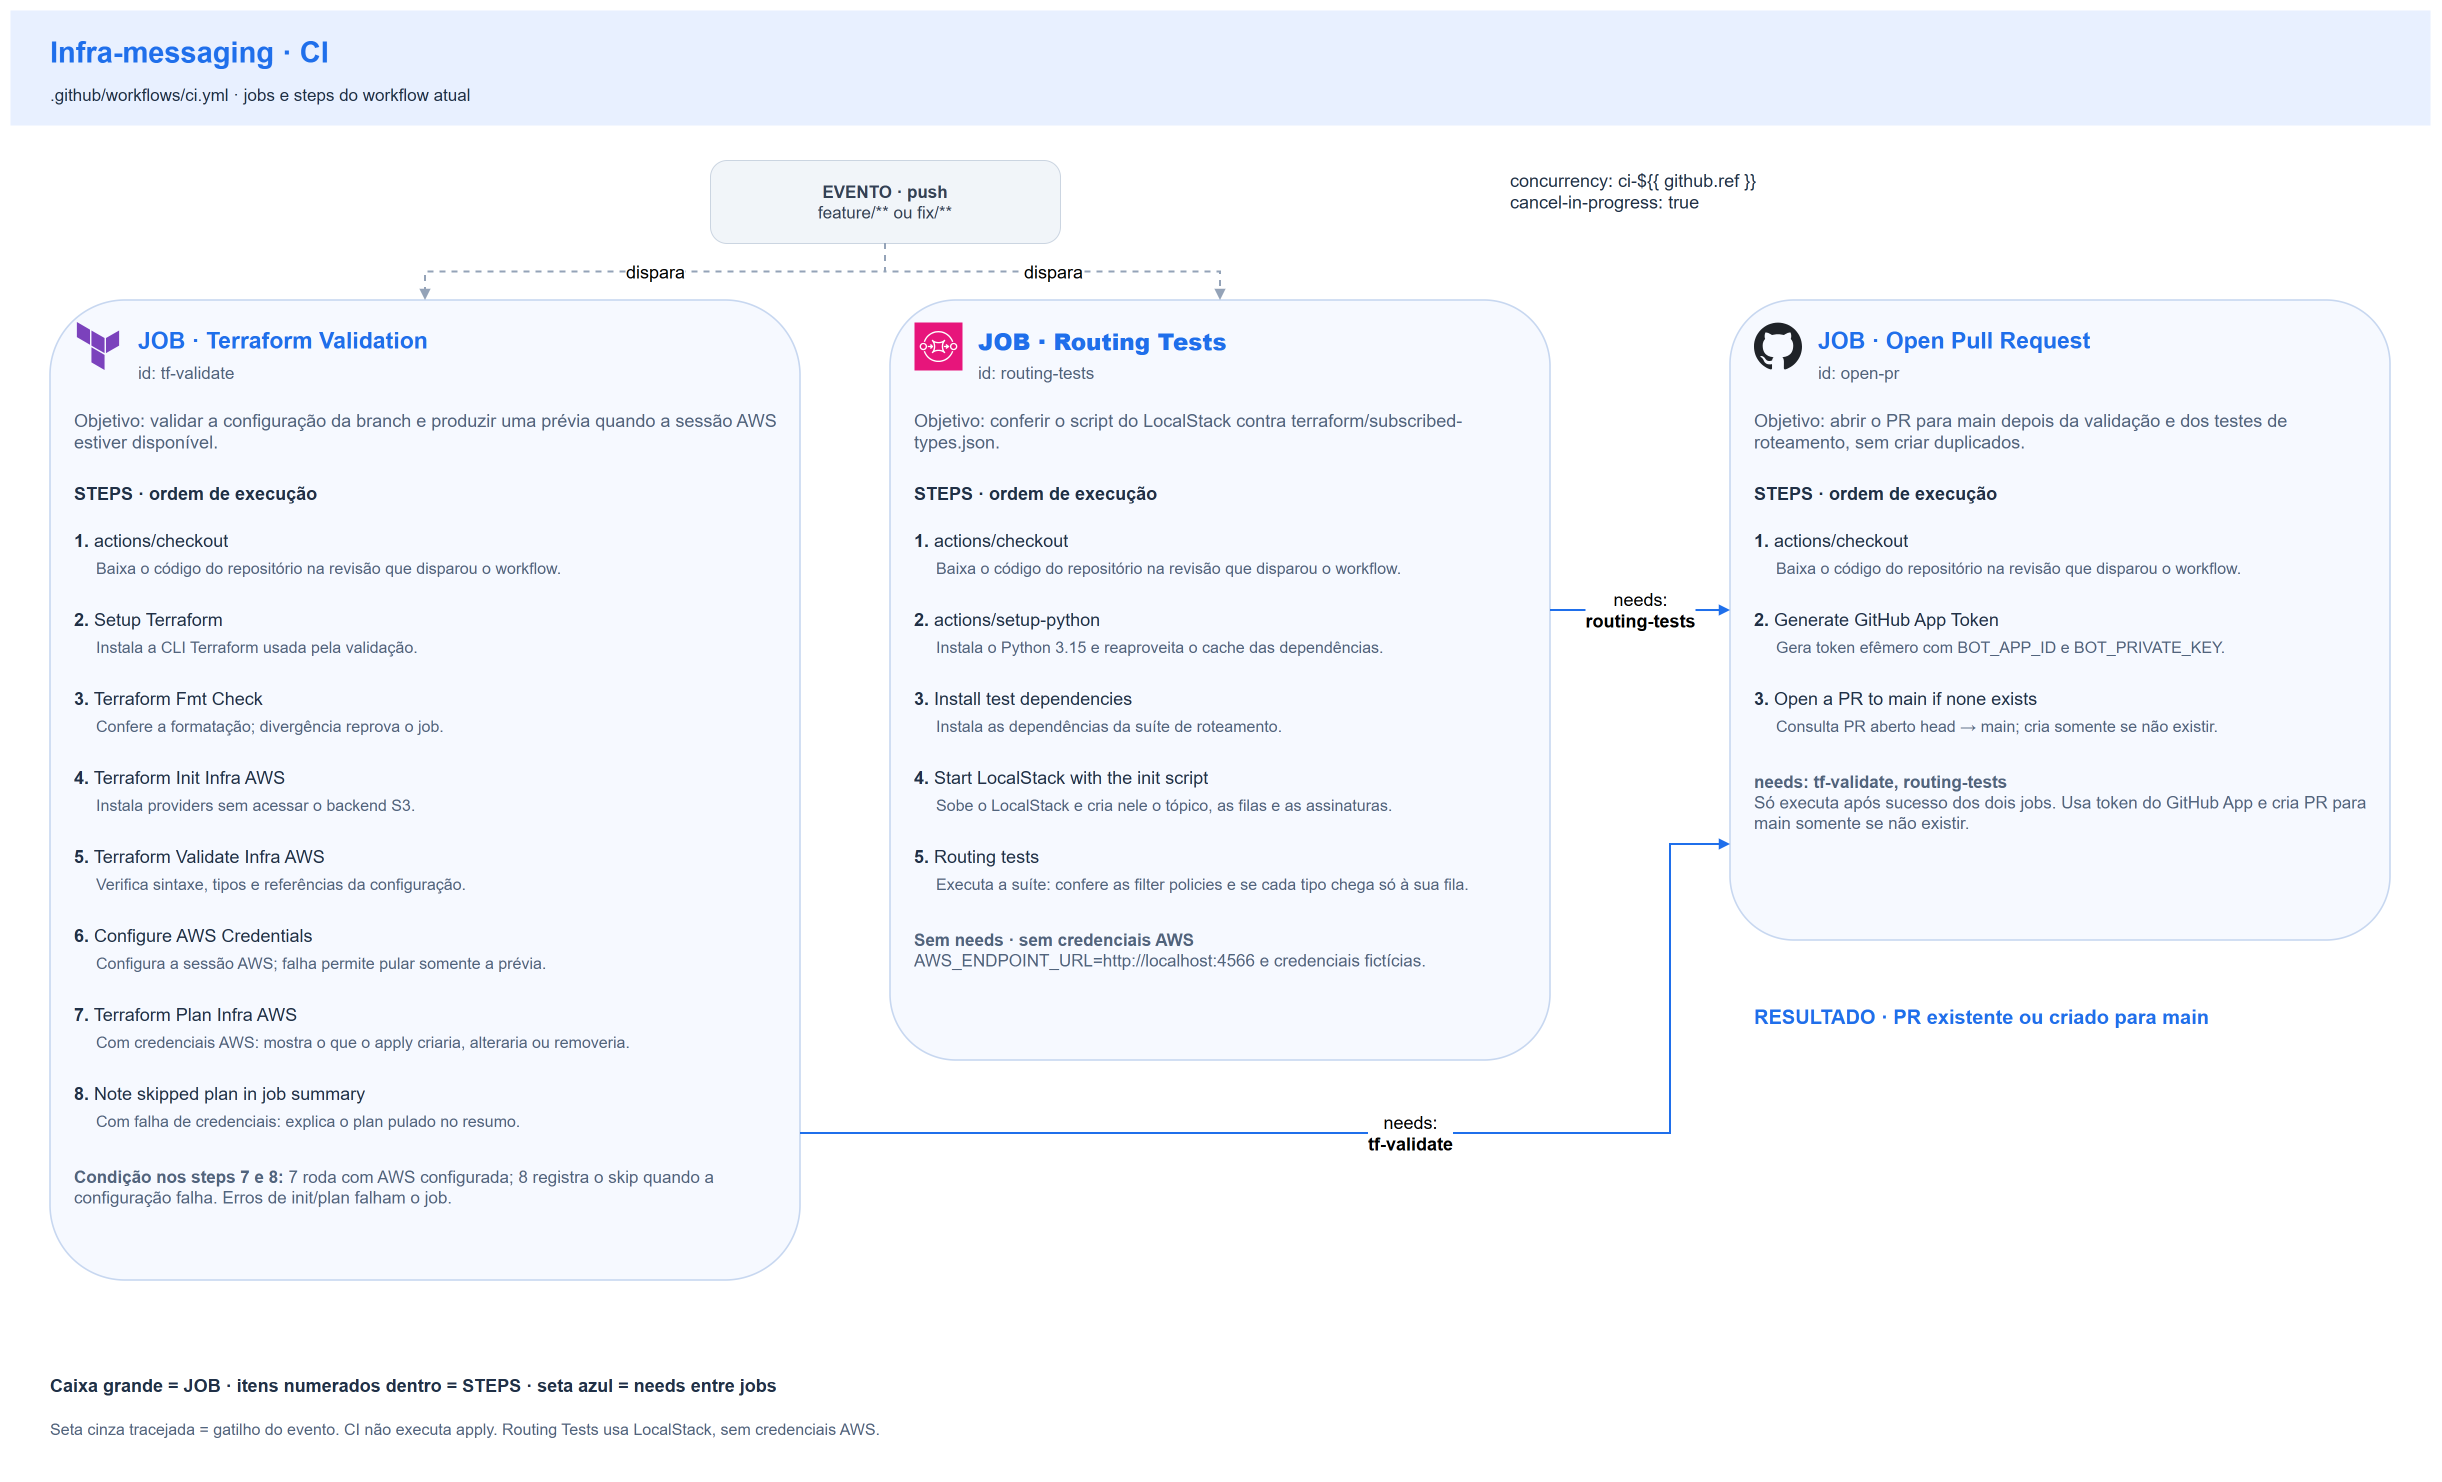
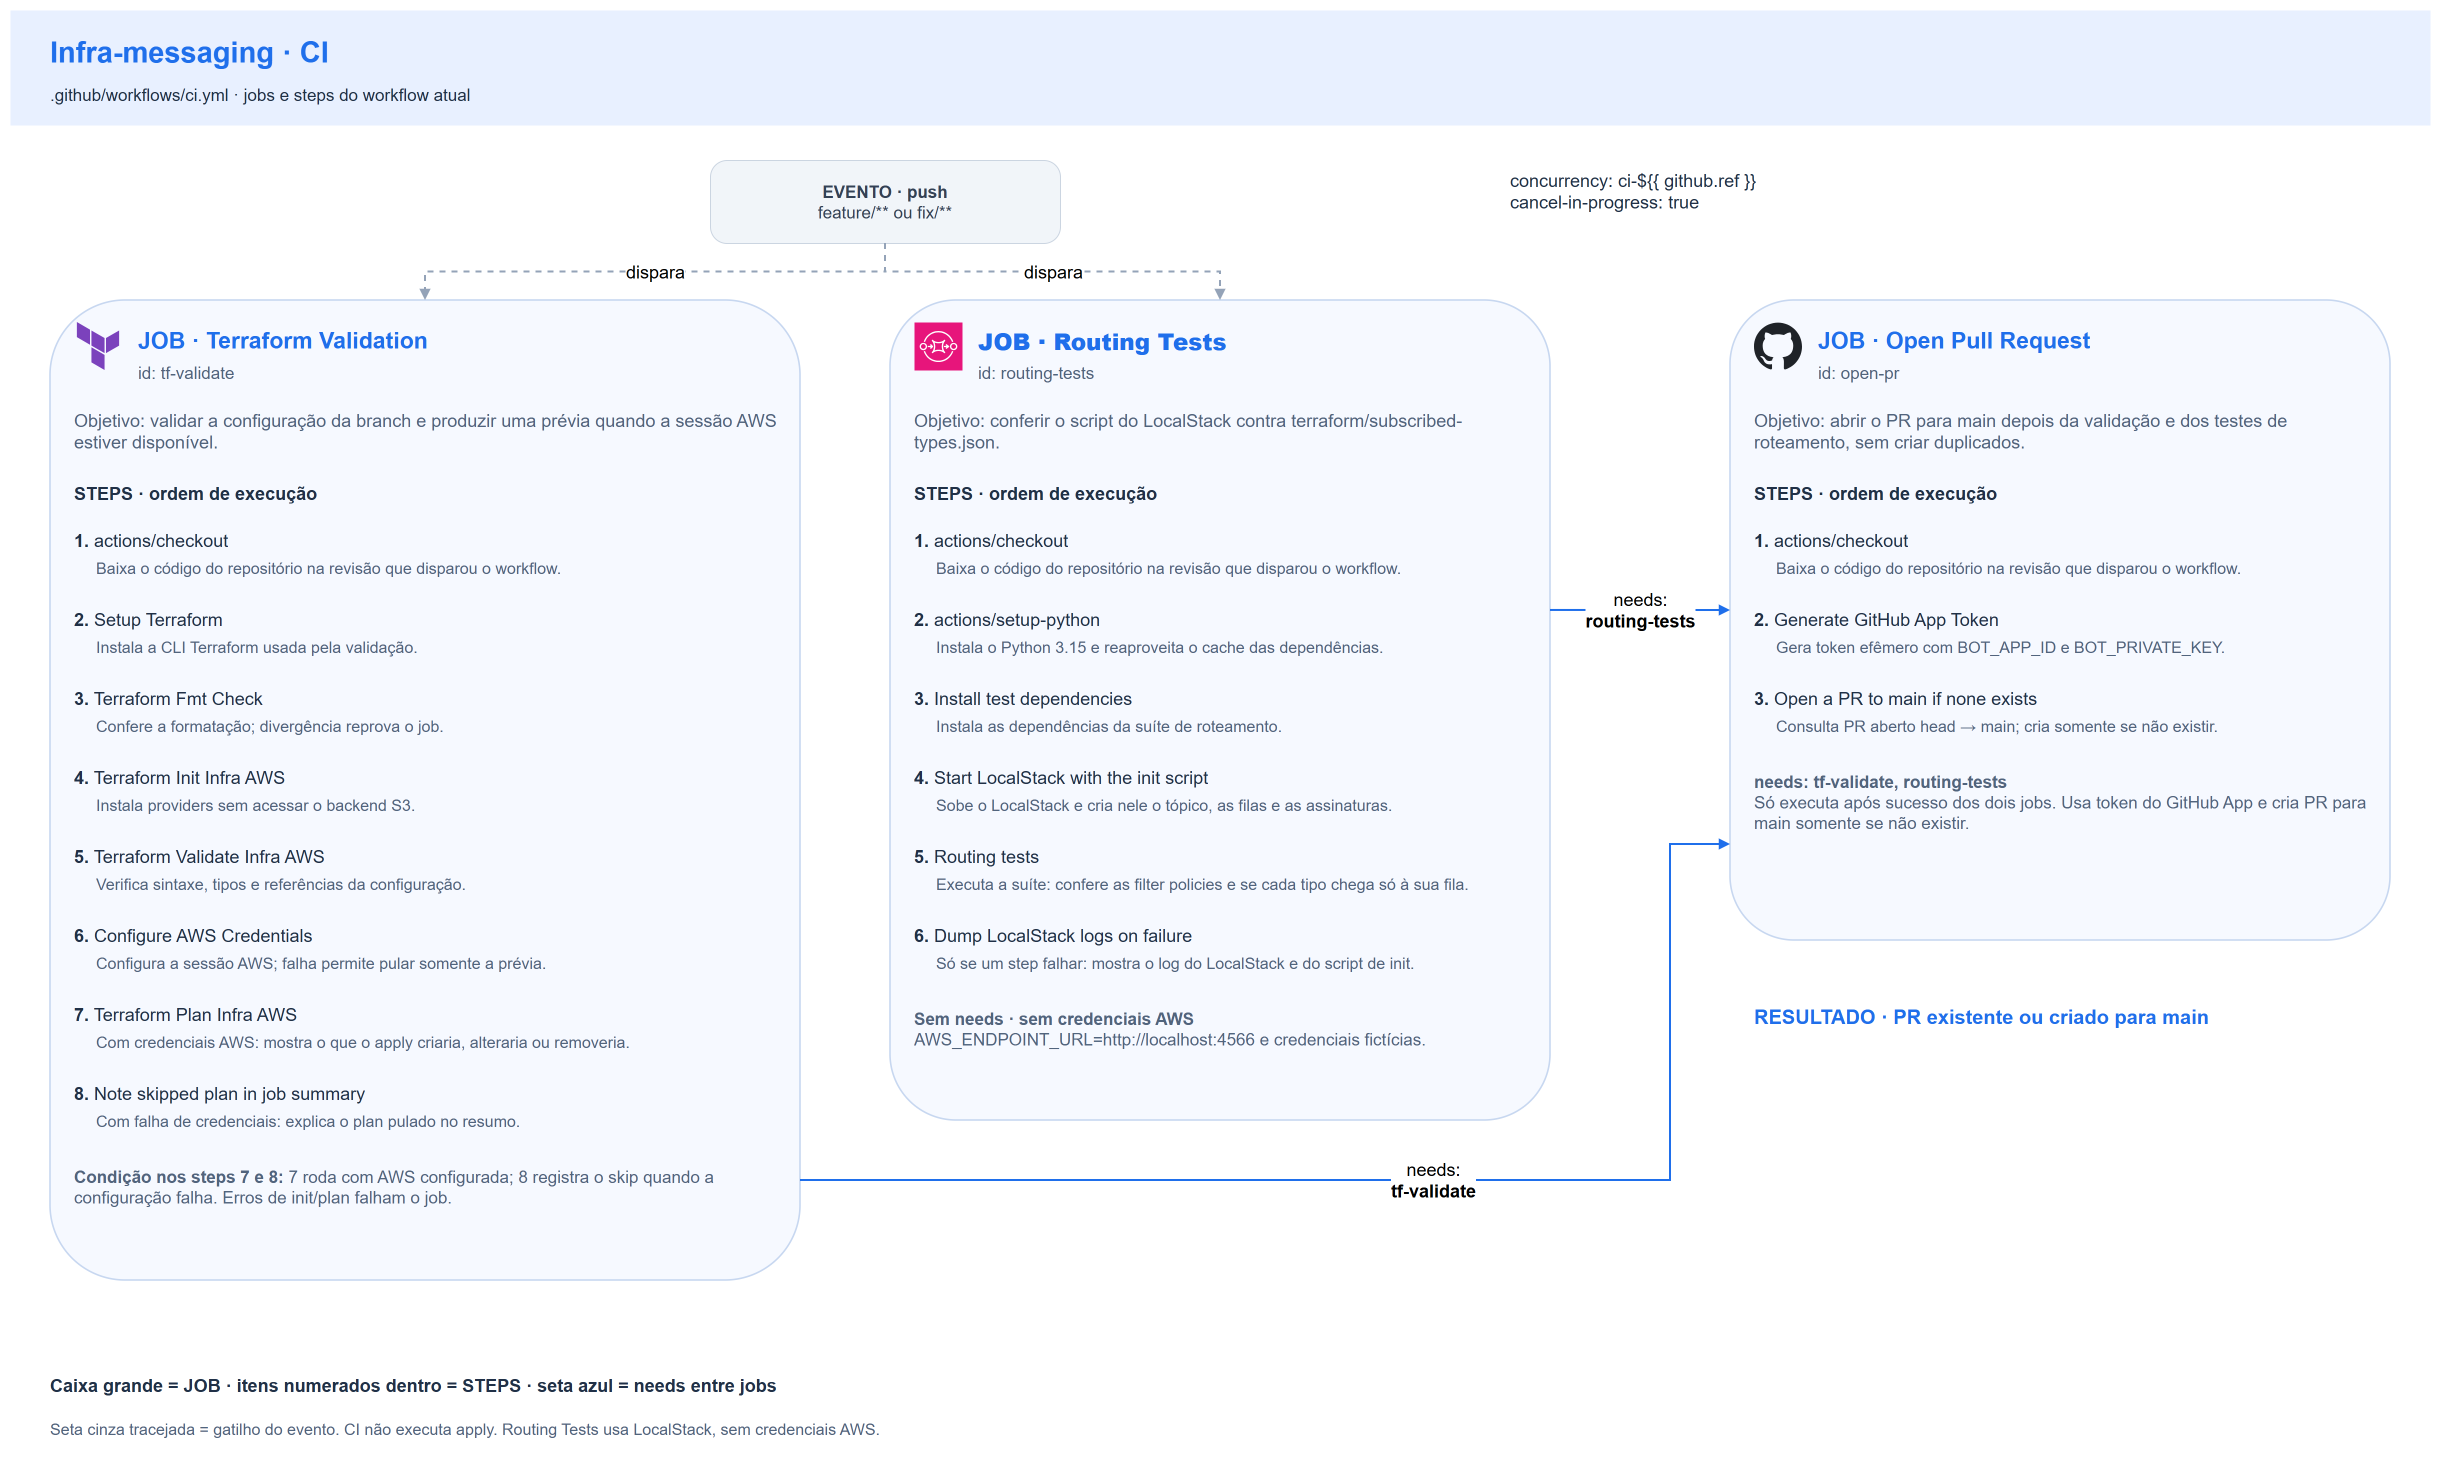
ci: dump localstack logs when routing tests fail

Changed region(s): [[0.3735, 0.6829, 0.5913, 0.7139], [0.3735, 0.6208, 0.5913, 0.6518], [0.5602, 0.7449, 0.6224, 0.807]]

diff --git a/docs/ci-cd.md b/docs/ci-cd.md
@@ -97,10 +97,11 @@ do ambiente.
 2. **Setup Python** (`actions/setup-python`): Python 3.15, com cache do pip pela chave de `tests/requirements.txt`.
 3. **Install test dependencies**: `pip install -r tests/requirements.txt` (boto3 e pytest em versões fixadas).
 4. **Start LocalStack with the init script**: `docker compose up -d`; o LocalStack 4.14.0 sobe com `localstack/init-topology.sh` montado em `/etc/localstack/init/ready.d/`.
-5. **Routing tests**: `pytest tests -v`. A suíte espera `GET /_localstack/init/ready` responder `completed` e falha com `init-topology.sh: <estado>` se o script não terminar `SUCCESSFUL`. Depois confere:
+5. **Routing tests**: `pytest tests -v`. A suíte espera `GET /_localstack/init/ready` responder `completed`, falha se nenhum script de init rodou e falha com `init-topology.sh: <estado>` se o script não terminar `SUCCESSFUL`. Depois confere:
    - por consumidor, que a assinatura tem raw delivery e a filter policy igual à lista do mapa em `terraform/subscribed-types.json`. É esse teste que pega um tipo que o script assina a mais;
    - por tipo do mapa, publicado duas vezes com os mesmos `MessageGroupId` e `MessageDeduplicationId`, que uma única cópia chega só à fila do consumidor, com o corpo e os atributos `type` e `traceparent`;
    - que um tipo fora do mapa não chega a nenhuma fila.
+6. **Dump LocalStack logs on failure**: só quando um step anterior falha (`if: failure()`); `docker compose logs localstack` mostra no log do job a saída do script de init, com o comando que falhou.
 
 ### Job `open-pr` — Open Pull Request
 
